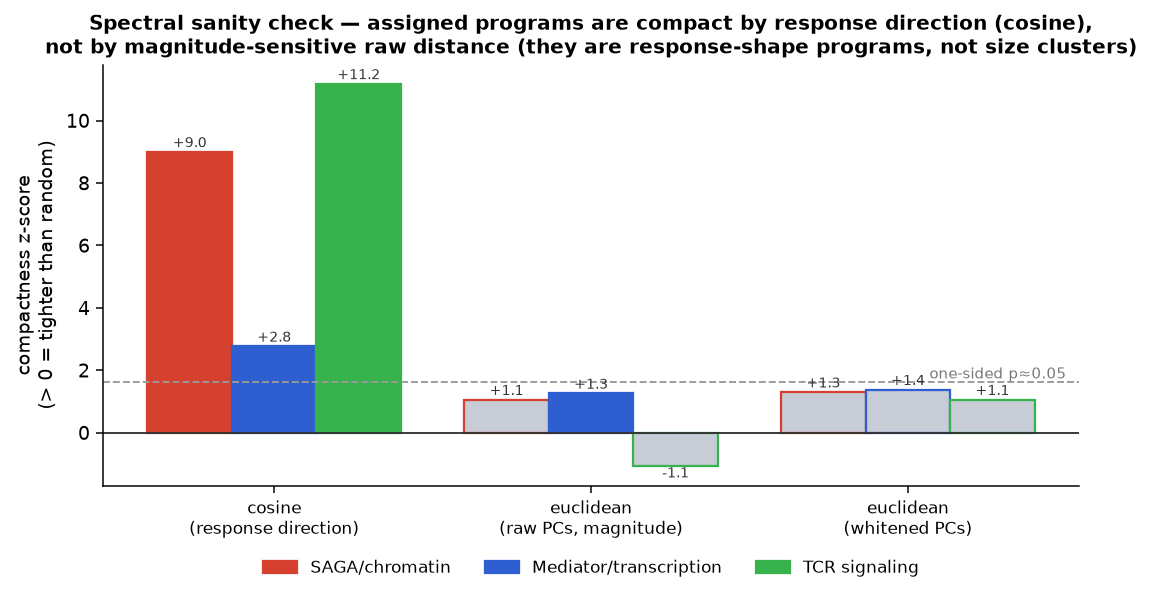
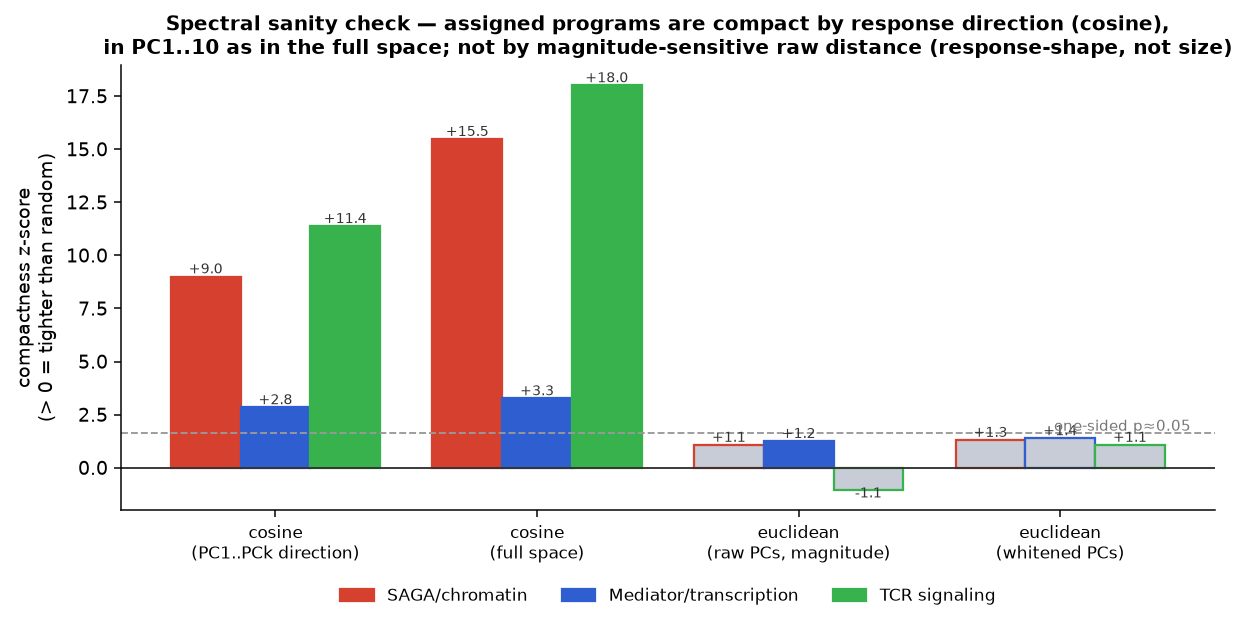
feat(programs): spectral check Variant A — cosine in PC1..PC10 + full-space comparison
Answers "do program members point in similar directions in the low-rank space?" directly.

- cosine in PC1..PC10 (Variant A): intra-program cosine similarity 0.88/0.79/0.84 (SAGA/
  Mediator/TCR) vs ~0.03 random → z=9.0/2.8/11.4, all p<=0.01. Yes, strongly.
- cosine in the FULL fingerprint space (loads the cached 200-panel matrix, reproduces the
  exact top-2000 + standardization): z=15.5/3.3/18.0, similarity 0.73/0.48/0.62. The direction
  structure is present in full space and PRESERVED — even sharpened — by the top-10 PCs, not a
  dimensionality-reduction artifact.
- report cosine as similarity (mean_intra_similarity) alongside distance; figure 25 now shows
  4 metric groups (PC-cosine, full-cosine, raw-eucl, whitened-eucl).

Raw-Euclidean still ns (magnitude-dominated) → response-shape programs, not size clusters.

Verified: make spectral runs clean; compiles.

Changed region(s): [[0.0, 0.1206, 0.9739, 0.9045], [0.0304, 0.0302, 1.0, 0.0905], [0.213, 0.9347, 0.8217, 0.9648]]

diff --git a/scripts/spectral_sanity_check.py b/scripts/spectral_sanity_check.py
@@ -10,10 +10,13 @@ For each labeled program (SAGA/chromatin, TCR signaling, Mediator/transcription)
     3. compare against 5,000 random groups of the same size (permutation null),
     4. report a z-score and a one-sided permutation p-value (z>0 = tighter than random).
 
-We report THREE distances, because the answer depends on the metric — and that contrast is
+We report several distances, because the answer depends on the metric — and that contrast is
 the point:
-    cosine              — response *direction* (matches how programs are defined and the
-                          cosine-space complex validation). This is the primary check.
+    cosine              — Variant A: response *direction* in the PC1..PCk low-rank space
+                          (do members point the same way?). This is the primary check.
+    cosine_full         — the same cosine in the FULL standardized fingerprint space (needs the
+                          cached matrix); comparison → is the direction structure preserved by the
+                          top-K PCs, or lost/created by dimensionality reduction?
     euclidean_raw       — raw PC space; magnitude-sensitive (PC1 = high-variance effect-size axis).
     euclidean_whitened  — standardized PCs (equal weight), balancing direction and magnitude.
 
@@ -44,13 +47,34 @@ from scipy.spatial.distance import pdist
 ROOT = Path(__file__).resolve().parent.parent
 TAB = ROOT / "docs" / "tables"
 FIG = ROOT / "docs" / "figures"
+CACHE = ROOT / "data" / "cache"
 RNG = np.random.RandomState(0)
 PROGRAM_COLOR = {"SAGA/chromatin": "#d6412f", "Mediator/transcription": "#2f5ed0",
                  "TCR signaling": "#37b24d"}
-METRICS = ["cosine", "euclidean_raw", "euclidean_whitened"]
-METRIC_LABEL = {"cosine": "cosine\n(response direction)",
+# Variant A = cosine in PC1..PCk (does the low-rank projection keep the direction structure?);
+# cosine_full = cosine in the full standardized fingerprint space (the comparison it is judged against).
+METRIC_LABEL = {"cosine": "cosine\n(PC1..PCk direction)",
+                "cosine_full": "cosine\n(full space)",
                 "euclidean_raw": "euclidean\n(raw PCs, magnitude)",
                 "euclidean_whitened": "euclidean\n(whitened PCs)"}
+
+
+def load_full_space():
+    """Reproduce the standardized full-space fingerprint matrix X (200 × top-2000 genes) the
+    exact way analyze_fingerprints.py builds it, from the cached panel zscore matrix — so
+    full-space cosine can be compared to PC-space cosine on the SAME assigned member sets.
+    Rows align with fingerprint_pca_scores.csv (panel order). Returns None if cache is absent."""
+    files = sorted(CACHE.glob("panel_zscore_*.npy"))
+    if not files:
+        return None
+    M = np.nan_to_num(np.load(files[-1]), nan=0.0, posinf=0.0, neginf=0.0)
+    v = M.var(0)
+    keep = np.argsort(v)[::-1][:2000]
+    keep = keep[v[keep] > 0]
+    Mg = M[:, keep]
+    mu, sd = Mg.mean(0), Mg.std(0)
+    sd[sd == 0] = 1.0
+    return (Mg - mu) / sd
 
 
 def _perm_test(M, idx, metric, perms):
@@ -83,8 +107,14 @@ def main():
     X = pca[pcs].to_numpy(float)
     labels = pca["program_label"].astype(str).to_numpy()
     Xw = (X - X.mean(0)) / (X.std(0) + 1e-9)                        # whitened PCs (equal weight)
-    space = {"euclidean_raw": (X, "euclidean"), "euclidean_whitened": (Xw, "euclidean"),
-             "cosine": (X, "cosine")}
+    space = {"cosine": (X, "cosine"), "euclidean_raw": (X, "euclidean"),
+             "euclidean_whitened": (Xw, "euclidean")}
+    metrics = ["cosine", "euclidean_raw", "euclidean_whitened"]
+    Xfull = load_full_space()                                       # comparison: full fingerprint space
+    if Xfull is not None and len(Xfull) == len(X):
+        space["cosine_full"] = (Xfull, "cosine")
+        metrics = ["cosine", "cosine_full", "euclidean_raw", "euclidean_whitened"]
+        print(f"  (full-space comparison available: {Xfull.shape[1]} genes)")
 
     evid_p = TAB / "program_label_evidence.csv"
     if evid_p.exists():
@@ -100,16 +130,21 @@ def main():
         if len(idx) < 2:
             print(f"  [{p}] n={len(idx)} — skipped (<2 members)")
             continue
-        for metric in METRICS:
+        for metric in metrics:
             M, m = space[metric]
             obs, nmean, sd, z, pv, null = _perm_test(M, idx, m, args.perms)
             nulls[(p, metric)] = (null, obs)
             sig = z > 0 and pv < 0.05
+            is_cos = metric.startswith("cosine")
             rows.append({"program": p, "n_members": int(len(idx)), "n_pcs": len(pcs), "metric": metric,
                          "mean_intra_distance": round(obs, 4), "null_mean_distance": round(nmean, 4),
+                         # for cosine metrics the intuitive number is similarity = 1 - distance
+                         "mean_intra_similarity": round(1 - obs, 3) if is_cos else None,
+                         "null_mean_similarity": round(1 - nmean, 3) if is_cos else None,
                          "null_sd": round(sd, 4), "z": round(z, 2), "p_perm": round(pv, 5),
                          "compact_vs_random": "yes" if sig else "ns"})
-            print(f"  [{p:24s} · {metric:18s}] n={len(idx):2d} intra={obs:8.3f} null={nmean:8.3f} "
+            extra = f"sim={1 - obs:.3f} vs {1 - nmean:.3f}  " if is_cos else ""
+            print(f"  [{p:24s} · {metric:18s}] n={len(idx):2d} {extra}"
                   f"z={z:+6.2f} p={pv:.4f}  {'COMPACT' if sig else 'ns'}")
 
     df = pd.DataFrame(rows)
@@ -119,12 +154,12 @@ def main():
     # ---- figure 25: z-score of compactness per program × metric ----
     if rows:
         progs = [p for p in programs if any(r["program"] == p for r in rows)]
-        xm = np.arange(len(METRICS))
+        xm = np.arange(len(metrics))
         w = 0.8 / max(1, len(progs))
-        fig, ax = plt.subplots(figsize=(8.2, 4.6))
+        fig, ax = plt.subplots(figsize=(9.2, 4.8))
         for k, p in enumerate(progs):
-            zs = [next(r["z"] for r in rows if r["program"] == p and r["metric"] == mtr) for mtr in METRICS]
-            ps = [next(r["p_perm"] for r in rows if r["program"] == p and r["metric"] == mtr) for mtr in METRICS]
+            zs = [next(r["z"] for r in rows if r["program"] == p and r["metric"] == mtr) for mtr in metrics]
+            ps = [next(r["p_perm"] for r in rows if r["program"] == p and r["metric"] == mtr) for mtr in metrics]
             base = PROGRAM_COLOR.get(p, "#888")
             colors = [base if (z > 0 and pv < 0.05) else "#c7ccd6" for z, pv in zip(zs, ps)]
             xpos = xm + (k - (len(progs) - 1) / 2) * w
@@ -134,11 +169,11 @@ def main():
                         fontsize=7.5, color="#333")
         ax.axhline(0, color="#333", lw=1)
         ax.axhline(1.64, color="#999", ls="--", lw=1)
-        ax.text(len(METRICS) - 0.5, 1.74, "one-sided p≈0.05", fontsize=8, color="#777", ha="right")
-        ax.set_xticks(xm); ax.set_xticklabels([METRIC_LABEL[m] for m in METRICS], fontsize=9)
+        ax.text(len(metrics) - 0.5, 1.74, "one-sided p≈0.05", fontsize=8, color="#777", ha="right")
+        ax.set_xticks(xm); ax.set_xticklabels([METRIC_LABEL[m] for m in metrics], fontsize=9)
         ax.set_ylabel("compactness z-score\n(> 0 = tighter than random)")
         ax.set_title("Spectral sanity check — assigned programs are compact by response direction (cosine),\n"
-                     "not by magnitude-sensitive raw distance (they are response-shape programs, not size clusters)",
+                     "in PC1..10 as in the full space; not by magnitude-sensitive raw distance (response-shape, not size)",
                      fontsize=10.5, fontweight="bold")
         ax.legend(frameon=False, fontsize=9, ncol=len(progs), loc="upper center", bbox_to_anchor=(0.5, -0.14))
         for s in ("top", "right"):
@@ -150,10 +185,15 @@ def main():
 
     # headline
     cos = df[df.metric == "cosine"]
-    print("\n  VERDICT (cosine / response-direction): "
+    print("\n  VARIANT A (cosine in PC1..PCk — do members point in similar directions in low-rank space?): "
           + " · ".join(f"{r.program.split('/')[0]} z={r.z} p={r.p_perm}" for r in cos.itertuples()))
-    print("  Programs are compact by response DIRECTION in the spectral embedding; raw-Euclidean")
-    print("  distance is magnitude-dominated (PC1 = effect-size axis) → not a size cluster. Honest nuance.")
+    if "cosine_full" in df.metric.values:
+        full = df[df.metric == "cosine_full"]
+        print("  vs FULL space cosine: "
+              + " · ".join(f"{r.program.split('/')[0]} z={r.z}" for r in full.itertuples())
+              + "  → the direction structure is preserved by the top-K PCs (not a high-dim-noise artifact).")
+    print("  Programs are compact by response DIRECTION; raw-Euclidean distance is magnitude-dominated")
+    print("  (PC1 = effect-size axis) → response-shape programs, not size clusters. Honest nuance.")
     print("✓ spectral sanity check complete.")
 
 

diff --git a/docs/FINGERPRINT_ANALYSIS.md b/docs/FINGERPRINT_ANALYSIS.md
@@ -49,14 +49,22 @@ fingerprint); SAGA is cohesive; Mediator is diffuse but significant. This is the
 (`spearman(|PC1|, n_downstream) = 0.25`).
 
 **Spectral sanity check (`make spectral` → `fingerprint_spectral_sanity.csv`, fig 25).** A second,
-independent-ish check: are the *assigned* program members (curated core **+** newly assigned neighbors,
-not just the curated members) more compact than random panel groups in the PC1–PC10 spectral
-embedding? By **cosine** (response direction — the metric that defines the programs) they clearly are:
-**SAGA z=9.0, Mediator z=2.8, TCR z=11.2** (5,000 permutations, all p≤0.01). By **raw Euclidean**
-distance they are *not* (TCR is even anti-compact, z=−1.1) — because raw PCA distance is dominated by
-effect *magnitude* (the high-variance PC1 axis), and a program's members span a wide range of effect
-sizes. Honest reading: **these are response-*shape* programs, not effect-*size* clusters** — coherent
-in what they do to the cell, not in how much.
+independent-ish check on the *assigned* members (curated core **+** newly assigned neighbors, not just
+the curated ones), in the low-rank PC1–PC10 embedding.
+
+- **Do members point in similar directions in the low-rank space?** (cosine in PC1–PC10) — yes,
+  strongly: intra-program cosine similarity **0.88 (SAGA) / 0.79 (Mediator) / 0.84 (TCR)** vs. ~0.03
+  for random panel pairs → **z=9.0 / 2.8 / 11.4**, 5,000 permutations, all p≤0.01.
+- **Is that structure preserved by the projection, or a dimensionality-reduction artifact?** The same
+  cosine in the *full* fingerprint space gives z=15.5 / 3.3 / 18.0 — the direction coherence is
+  present in the full space and **preserved (even sharpened) by the top-10 PCs** (they capture the
+  program direction and drop noise), not created by it.
+- **By raw Euclidean distance they are *not* compact** (TCR is even anti-compact, z=−1.1) — raw PCA
+  distance is dominated by effect *magnitude* (the high-variance PC1 axis), and a program's members
+  span a wide range of effect sizes.
+
+Honest reading: **these are response-*shape* programs, not effect-*size* clusters** — coherent in what
+they do to the cell, not in how much.
 
 ### 2. Recognizable programs, with newly assigned neighbors
 